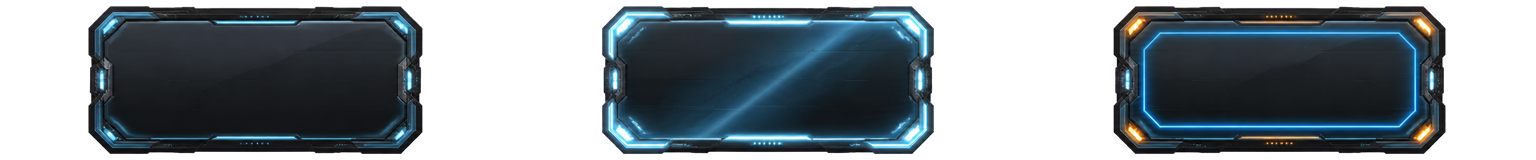
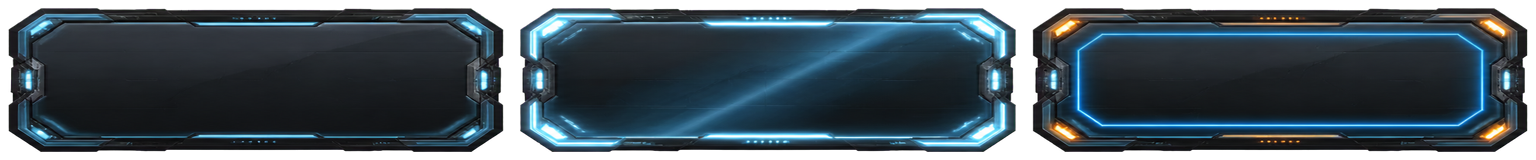
fix: crop NPC portraits and repair command UI

diff --git a/game/src/App.jsx b/game/src/App.jsx
@@ -102,12 +102,18 @@ const FACILITY_COPY = Object.freeze({
 });
 
 const BOSS_NAME_KO = Object.freeze({
-  "THE WRONG ENGINE": "오답 엔진",
-  "WRONG ENGINE CORE": "오답 엔진 핵심부",
-  "MIRROR TYRANT": "거울 폭군",
-  "DROWNED ORACLE": "침몰한 예언자",
-  "SOVEREIGN CORE": "소버린 추론핵",
+  "THE WRONG ENGINE": "오답 엔진 · THE WRONG ENGINE",
+  "WRONG ENGINE CORE": "오답 엔진 핵심부 · WRONG ENGINE CORE",
+  "MIRROR TYRANT": "거울 폭군 · MIRROR TYRANT",
+  "DROWNED ORACLE": "침몰한 예언자 · DROWNED ORACLE",
+  "SOVEREIGN CORE": "소버린 추론핵 · SOVEREIGN CORE",
 });
+
+function mixedRegionName(region) {
+  if (!region) return "작전 구역";
+  const korean = region.koreanName || region.name || "작전 구역";
+  return region.name && region.name !== korean ? `${korean} · ${region.name}` : korean;
+}
 
 const SPEAKER_NAME_KO = Object.freeze({
   AEGIS: "이지스",
@@ -1847,7 +1853,7 @@ function ResultScreen({ result, assets, region, onRestart, onBase }) {
         <div className="result-emblem">{victory ? <Trophy weight="fill" /> : <Warning weight="fill" />}</div>
         <div className="result-kicker">{victory ? `${bossDisplayName} 파괴 완료` : "이지스 신호 소실"}</div>
         <h1>{victory ? "작전 성공" : "작전 실패"}</h1>
-        <p>{victory ? `${region?.koreanName || "작전 구역"}의 군단과 지역 추론핵을 파괴했습니다. 전투 기록을 기지로 전송합니다.` : "소버린이 이번 전투 패턴을 학습했습니다. 다음 출격에서는 이동과 성장 선택을 바꿔 보세요."}</p>
+        <p>{victory ? `${mixedRegionName(region)}의 군단과 지역 추론핵을 파괴했습니다. 전투 기록을 기지로 전송합니다.` : "소버린이 이번 전투 패턴을 학습했습니다. 다음 출격에서는 이동과 성장 선택을 바꿔 보세요."}</p>
         {(assets?.bossPhase3 || assets?.boss) && <img className="result-boss" src={(assets.bossPhase3 || assets.boss).src} alt={`${bossDisplayName} 최종 광폭화 형상`} />}
         <div className="result-stats">
           <span><small>처치한 적</small><b>{result?.kills || result?.stats?.kills || 0}</b></span>

diff --git a/game/src/ui/campaign/CampaignScreens.jsx b/game/src/ui/campaign/CampaignScreens.jsx
@@ -30,9 +30,9 @@ const NPC_DISPLAY = Object.freeze({
 });
 
 const BOSS_DISPLAY = Object.freeze({
-  "THE WRONG ENGINE": "오답 엔진",
-  "MIRROR TYRANT": "거울 폭군",
-  "DROWNED ORACLE": "침몰한 예언자",
+  "THE WRONG ENGINE": "오답 엔진 · THE WRONG ENGINE",
+  "MIRROR TYRANT": "거울 폭군 · MIRROR TYRANT",
+  "DROWNED ORACLE": "침몰한 예언자 · DROWNED ORACLE",
 });
 
 const ABILITY_CATEGORY_KO = Object.freeze({
@@ -554,7 +554,7 @@ export function RegionSelectScreen({ regions, campaign, assets, onSelect, onBack
               key={region.id}
             >
               <span>작전 {String(index + 1).padStart(2, "0")}</span>
-              <strong>{region.koreanName || region.name}</strong>
+              <strong className="region-mixed-name"><span>{region.koreanName || region.name}</span><em>{region.name}</em></strong>
               <p>{localizeWorldText(region.summary)}</p>
               {region.threatProfile && (
                 <span className="region-threat">
@@ -575,7 +575,7 @@ export function RegionSelectScreen({ regions, campaign, assets, onSelect, onBack
             <ArrowLeft weight="bold" /> 구역 목록 <kbd>ESC</kbd>
           </button>
           <div className="region-sortie-kicker"><span>{selectedRegion.chapterLabel}</span><i>{completed.has(selectedRegion.id) ? "해방 기록 있음" : "첫 공략"}</i></div>
-          <h2 id="region-sortie-title">{selectedRegion.koreanName || selectedRegion.name}</h2>
+          <h2 className="region-mixed-name" id="region-sortie-title"><span>{selectedRegion.koreanName || selectedRegion.name}</span><em>{selectedRegion.name}</em></h2>
           <p>{localizeWorldText(selectedRegion.description)}</p>
           <dl className="region-sortie-intel">
             <div><dt>주요 적 조합</dt><dd>{localizeThreatText(selectedRegion.threatProfile?.composition)}</dd></div>

diff --git a/game/src/styles.css b/game/src/styles.css
@@ -4684,12 +4684,36 @@ kbd {
   width: min(27vw, 330px);
   height: calc(100% + 42px);
   background-repeat: no-repeat;
-  background-size: auto 100%;
+  overflow: hidden;
+  background-size: 300% auto;
+  background-position-y: center !important;
   filter: drop-shadow(12px 0 18px rgba(0, 0, 0, 0.55));
 }
 
 .base-npc-portrait.is-standalone {
   background-size: contain;
+}
+
+.region-mixed-name {
+  display: flex;
+  flex-direction: column;
+  gap: 3px;
+}
+
+.region-mixed-name > span { color: inherit; }
+.region-mixed-name > em {
+  color: #72d9e8;
+  font-family: var(--font-brand);
+  font-size: 0.48em;
+  font-style: normal;
+  font-weight: 600;
+  letter-spacing: 0.13em;
+}
+
+.region-sortie-dialog h2.region-mixed-name > em {
+  margin-top: 4px;
+  font-size: 0.3em;
+  letter-spacing: 0.16em;
 }
 
 .base-dialogue > div > small { color: #66e8fb; font-family: var(--font-ui); font-size: 9px; letter-spacing: 0.16em; }
@@ -5751,4 +5775,27 @@ kbd,
 @media (prefers-reduced-motion: reduce) {
   .region-focus-background,
   .region-sortie-dialog { animation: none; transition: none; }
+}
+
+/* Keep the authored three-state frame authoritative after later component
+   background shorthands. Each atlas cell must fill the real button box. */
+.command-ui-button {
+  background-color: rgba(5, 22, 29, 0.96);
+  background-image: var(--command-button-atlas);
+  background-repeat: no-repeat;
+  background-position: 0 50%;
+  background-size: 300% 100%;
+}
+
+.command-ui-button:hover:not(:disabled),
+.command-ui-button:focus-visible:not(:disabled) {
+  background-image: var(--command-button-atlas);
+  background-position: 50% 50%;
+  background-size: 300% 100%;
+}
+
+.command-ui-button:active:not(:disabled) {
+  background-image: var(--command-button-atlas);
+  background-position: 100% 50%;
+  background-size: 300% 100%;
 }

diff --git a/game/scripts/normalize-ui-button-atlas.py b/game/scripts/normalize-ui-button-atlas.py
@@ -17,6 +17,7 @@ def parse_args() -> argparse.Namespace:
     parser.add_argument("--frame-height", type=int, default=160)
     parser.add_argument("--padding", type=int, default=6)
     parser.add_argument("--alpha-threshold", type=int, default=10)
+    parser.add_argument("--fit", choices=("contain", "stretch"), default="contain")
     return parser.parse_args()
 
 
@@ -48,7 +49,11 @@ def main() -> None:
     )
     atlas = Image.new("RGBA", (args.frame_width * 3, args.frame_height), (0, 0, 0, 0))
     for index, frame in enumerate(frames):
-        size = (max(1, round(frame.width * scale)), max(1, round(frame.height * scale)))
+        size = (
+            (args.frame_width - args.padding * 2, args.frame_height - args.padding * 2)
+            if args.fit == "stretch"
+            else (max(1, round(frame.width * scale)), max(1, round(frame.height * scale)))
+        )
         resized = frame.resize(size, Image.Resampling.LANCZOS)
         x = index * args.frame_width + (args.frame_width - resized.width) // 2
         y = (args.frame_height - resized.height) // 2

diff --git a/game/AGENTS.md b/game/AGENTS.md
@@ -28,6 +28,7 @@ Build app UI in `src/`. Keep `.openai/hosting.json`, `worker/index.js`, `scripts
 - Keep each follow-up boss's two signature patterns in addition to the six common patterns: MIRROR TYRANT owns `prismLattice` and `solarFlare`; DROWNED ORACLE owns `memorySpiral` and `depthCollapse`. The engine's lanes, ordered targets, rotating segments, and contracting radii are the single collision/telegraph geometry; Phaser must render those same mutable objects rather than approximate them with unrelated tweens.
 - Preserve readable combat feedback at crowd scale: remaining-enemy count, route progress, XP progress, level-up choices, boss entrance, danger telegraphs, weak-point exposure, stun/contact feedback, hit-stop, damage feedback, and victory state must remain legible. Keep the center and lower-middle playfield clear during normal play; only scenario dialogue may temporarily occupy the bottom of the screen while simulation is paused. Dialogue art is an enlarged upper-body crop, not a full-body card.
 - Resolve every scenario portrait from the current speaker rather than falling back to AEGIS for every line. AEGIS uses `public/assets/overload/hero/survivor-portrait.png`; RHEA and the `OPERATOR` speaker share the existing `public/assets/overload/ui/npcs/rhea-control-officer.png`; HANA, ILYA, and LARK use their own 0/1/2 frames from the existing `public/assets/overload/ui/npcs/haven-npc-portraits-atlas.png`; and THE WRONG ENGINE, MIRROR TYRANT, and DROWNED ORACLE use the matching selected-region 3-form boss atlas and current phase. Keep regional boss portrait art lazy-mounted with the dialogue/boss stage, and do not invent or claim separate bespoke NPC images where the original atlas is the source.
+- HANA/ILYA/LARK's 3-column dialogue atlas must display exactly one square cell at 0%/50%/100%; size the full background to `300% auto` inside the clipped portrait box so a neighboring character can never leak into the dialogue panel. The three-state command-button atlas must first trim each source state and fill its 512×160 cell, then render at `300% 100%` with 0%/50%/100% state positions even when a component has its own background shorthand. Region and boss proper names use readable mixed labels such as `오답 엔진 중앙로 · WRONG ENGINE CORE`, `유리 사구 · GLASS DUNE`, and `심해 기록고 · ABYSSAL ARCHIVE` instead of discarding the established English callsign.
 - Use the four active route textures under `public/assets/overload/environment/`: shattered approach, flooded memorial, engine causeway, and the dedicated boss chamber. Crossfade them from route distance while keeping the broad center corridor traversable. Three authored trace checkpoints pause the battle and open bottom-screen dialogue before the engine chamber.
 - Render the boss chamber as one authored 1920×1080 image stretched once across the expanded world. Never use a `TileSprite`, mirroring, or repeated texture motion for the boss room; its asymmetric reactor crown, collapsed gantry, left entry lock, and oval playable floor must remain spatially stable during the encounter.
 - All gameplay actors use the unified art under `public/assets/overload/hero`, `enemies`, `allies`, and `boss`. Every player, humanoid, drone, deployable, and boss gameplay sprite is authored from a strict 90-degree true-nadir ceiling camera and centered in its frame. A rotatable non-player actor may show only crown, shoulder/upper-back, top armor, weapon-top, and foreshortened limb surfaces; zero oblique tilt, perspective convergence, visible face/chest front, or raised three-quarter torso is allowed. AEGIS is the deliberate runtime exception to whole-sprite rotation: her head always points screen-up, her feet screen-down, upper/level/lower aim art selects the weapon angle, and the whole upright sprite flips horizontally for the left hemisphere. Never restore eye-level, side-view, front-view, or 360-degree whole-player rotation. The dialogue portrait remains the other intentional exception: keep its enlarged upper-body crop facing the viewer.
